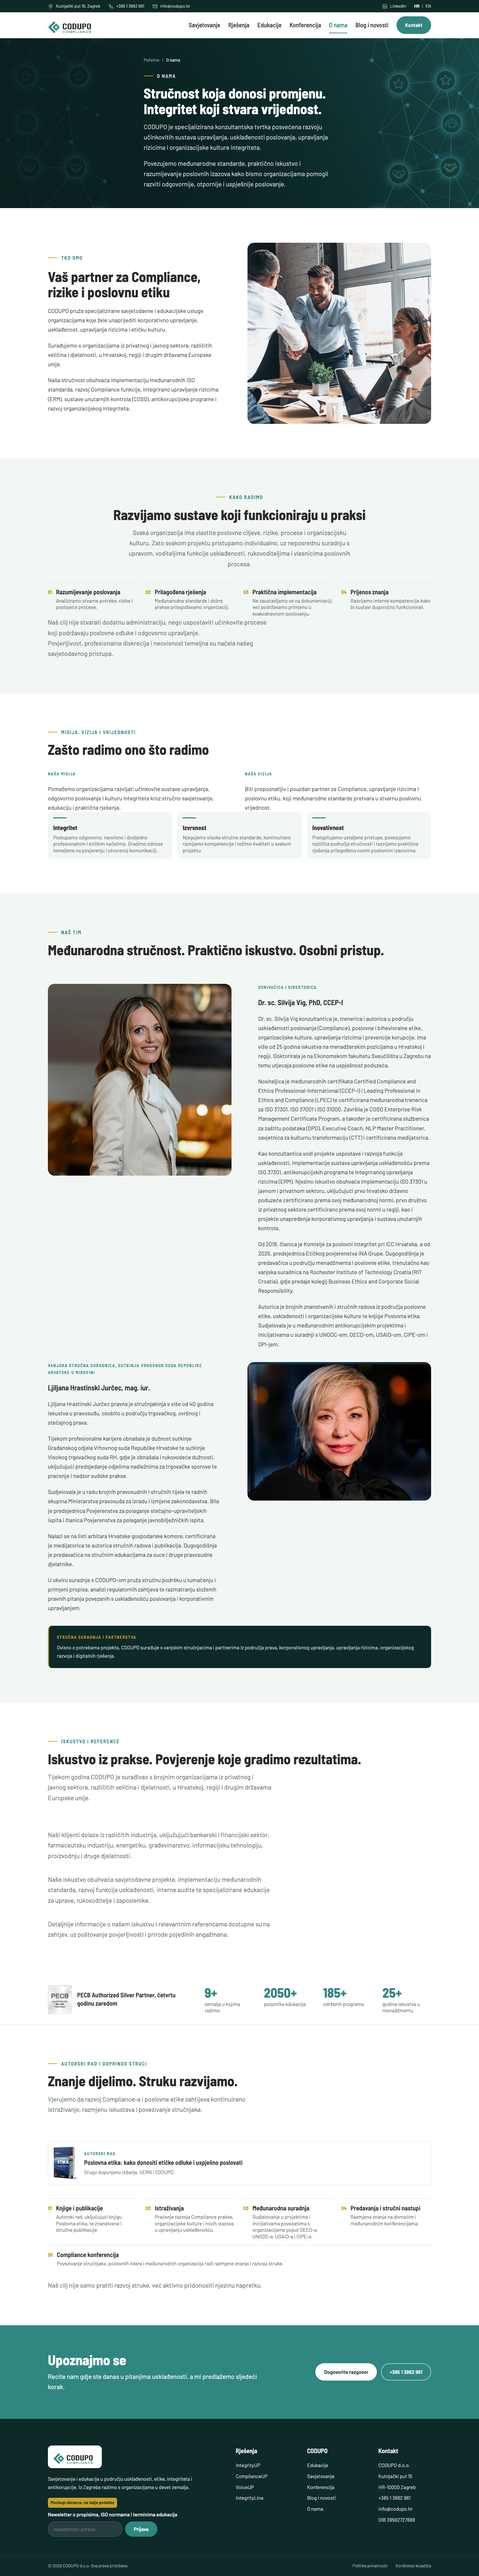
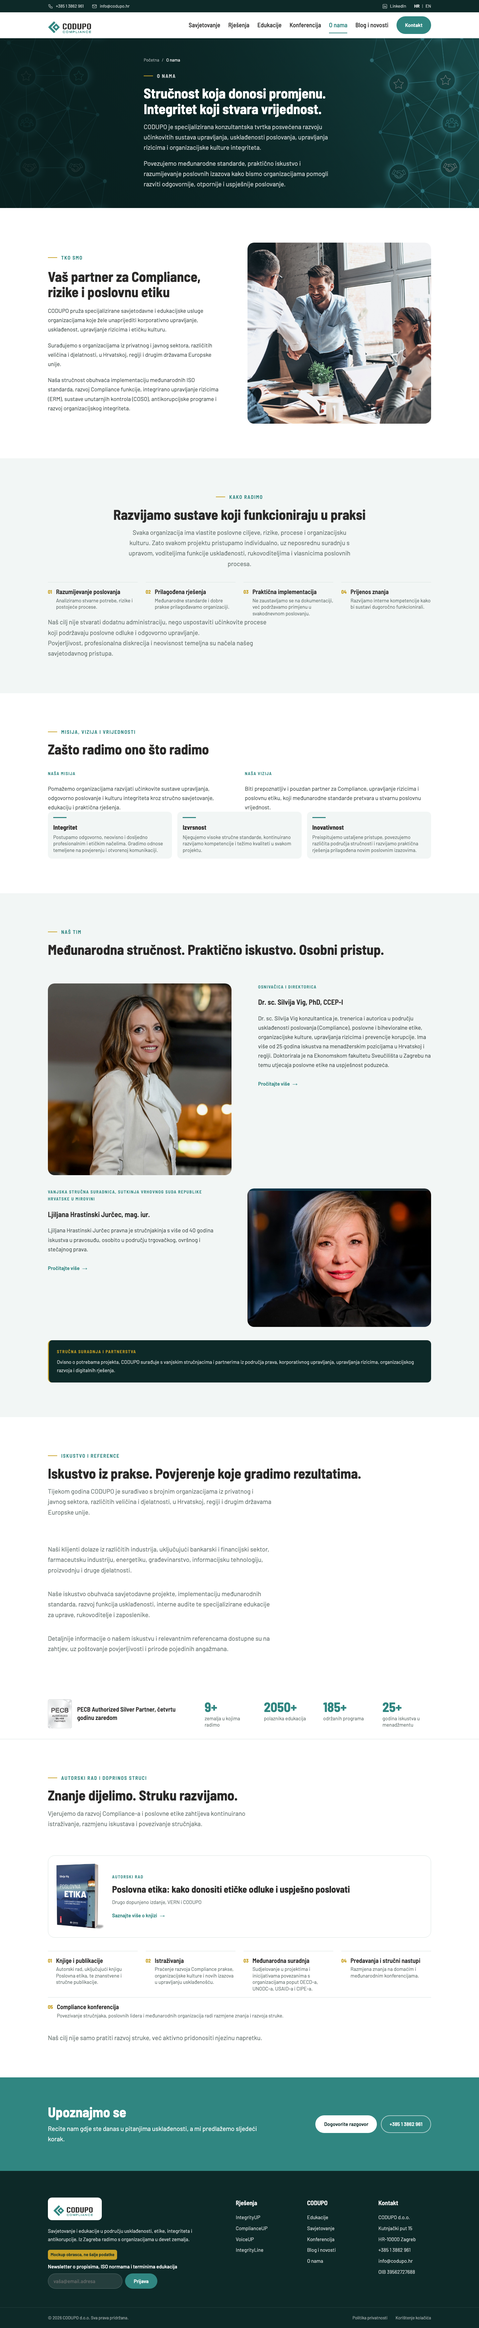
Ukloni adresu iz headera, dodaj Pročitajte više za biografije i uvećaj karticu knjige na O nama
Adresa je vlasnikova privatna adresa stanovanja, uklonjena samo iz
headera (footer ostaje netaknut). Biografije Silvije Vig i Ljiljane
Hrastinski Jurčec sad imaju "Pročitajte više" umjesto punog teksta.
Kartica knjige Poslovna etika uvećana i klikabilna, s mockup opisom
i poveznicom za narudžbu do stvarnog teksta vlasnika.

Changed region(s): [[0.0, 0.0, 1.0, 0.9973], [0.6875, 0.7168, 0.7188, 0.7791], [0.8125, 0.7168, 0.8438, 0.748]]

diff --git a/o-nama.html b/o-nama.html
@@ -106,10 +106,15 @@
             <span class="card-kicker">Osnivačica i direktorica</span>
             <h3 class="card-title">Dr. sc. Silvija Vig, PhD, CCEP-I</h3>
             <p class="body-text">Dr. sc. Silvija Vig konzultantica je, trenerica i autorica u području usklađenosti poslovanja (Compliance), poslovne i bihevioralne etike, organizacijske kulture, upravljanja rizicima i prevencije korupcije. Ima više od 25 godina iskustva na menadžerskim pozicijama u Hrvatskoj i regiji. Doktorirala je na Ekonomskom fakultetu Sveučilišta u Zagrebu na temu utjecaja poslovne etike na uspješnost poduzeća.</p>
-            <p class="body-text">Nositeljica je međunarodnih certifikata Certified Compliance and Ethics Professional-International (CCEP-I) i Leading Professional in Ethics and Compliance (LPEC) te certificirana međunarodna trenerica za ISO 37301, ISO 37001 i ISO 31000. Završila je COSO Enterprise Risk Management Certificate Program, a također je certificirana službenica za zaštitu podataka (DPO), Executive Coach, NLP Master Practitioner, savjetnica za kulturnu transformaciju (CTT) i certificirana medijatorica.</p>
-            <p class="body-text">Kao konzultantica vodi projekte uspostave i razvoja funkcija usklađenosti, implementacije sustava upravljanja usklađenošću prema ISO 37301, antikorupcijskih programa te integriranog upravljanja rizicima (ERM). Njezino iskustvo obuhvaća implementaciju ISO 37301 u javnom i privatnom sektoru, uključujući prvo hrvatsko državno poduzeće certificirano prema ovoj međunarodnoj normi, prvo društvo iz privatnog sektora certificirano prema ovoj normi u regiji, kao i projekte unapređenja korporativnog upravljanja i sustava unutarnjih kontrola.</p>
-            <p class="body-text">Od 2018. članica je Komisije za poslovni integritet pri ICC Hrvatska, a od 2025. predsjednica Etičkog povjerenstva INA Grupe. Dugogodišnja je predavačica u području menadžmenta i poslovne etike, trenutačno kao vanjska suradnica na Rochester Institute of Technology Croatia (RIT Croatia), gdje predaje kolegij Business Ethics and Corporate Social Responsibility.</p>
-            <p class="body-text">Autorica je brojnih znanstvenih i stručnih radova iz područja poslovne etike, usklađenosti i organizacijske kulture te knjige Poslovna etika. Sudjelovala je u međunarodnim antikorupcijskim projektima i inicijativama u suradnji s UNODC-em, OECD-om, USAID-om, CIPE-om i DPI-jem.</p>
+            <details class="bio-more">
+              <summary class="bio-more-toggle"><span class="bio-more-show">Pročitajte više</span><span class="bio-more-hide">Prikaži manje</span> <span class="link-arrow-mark">→</span></summary>
+              <div class="bio-more-body">
+                <p class="body-text">Nositeljica je međunarodnih certifikata Certified Compliance and Ethics Professional-International (CCEP-I) i Leading Professional in Ethics and Compliance (LPEC) te certificirana međunarodna trenerica za ISO 37301, ISO 37001 i ISO 31000. Završila je COSO Enterprise Risk Management Certificate Program, a također je certificirana službenica za zaštitu podataka (DPO), Executive Coach, NLP Master Practitioner, savjetnica za kulturnu transformaciju (CTT) i certificirana medijatorica.</p>
+                <p class="body-text">Kao konzultantica vodi projekte uspostave i razvoja funkcija usklađenosti, implementacije sustava upravljanja usklađenošću prema ISO 37301, antikorupcijskih programa te integriranog upravljanja rizicima (ERM). Njezino iskustvo obuhvaća implementaciju ISO 37301 u javnom i privatnom sektoru, uključujući prvo hrvatsko državno poduzeće certificirano prema ovoj međunarodnoj normi, prvo društvo iz privatnog sektora certificirano prema ovoj normi u regiji, kao i projekte unapređenja korporativnog upravljanja i sustava unutarnjih kontrola.</p>
+                <p class="body-text">Od 2018. članica je Komisije za poslovni integritet pri ICC Hrvatska, a od 2025. predsjednica Etičkog povjerenstva INA Grupe. Dugogodišnja je predavačica u području menadžmenta i poslovne etike, trenutačno kao vanjska suradnica na Rochester Institute of Technology Croatia (RIT Croatia), gdje predaje kolegij Business Ethics and Corporate Social Responsibility.</p>
+                <p class="body-text">Autorica je brojnih znanstvenih i stručnih radova iz područja poslovne etike, usklađenosti i organizacijske kulture te knjige Poslovna etika. Sudjelovala je u međunarodnim antikorupcijskim projektima i inicijativama u suradnji s UNODC-em, OECD-om, USAID-om, CIPE-om i DPI-jem.</p>
+              </div>
+            </details>
           </div>
         </div>
         <div class="split split-start">
@@ -117,10 +122,15 @@
             <span class="card-kicker">Vanjska stručna suradnica, sutkinja Vrhovnog suda Republike Hrvatske u mirovini</span>
             <h3 class="card-title">Ljiljana Hrastinski Jurčec, mag. iur.</h3>
             <p class="body-text">Ljiljana Hrastinski Jurčec pravna je stručnjakinja s više od 40 godina iskustva u pravosuđu, osobito u području trgovačkog, ovršnog i stečajnog prava.</p>
-            <p class="body-text">Tijekom profesionalne karijere obnašala je dužnost sutkinje Građanskog odjela Vrhovnog suda Republike Hrvatske te sutkinje Visokog trgovačkog suda RH, gdje je obnašala i rukovodeće dužnosti, uključujući predsjedanje odjelima nadležnima za trgovačke sporove te praćenje i nadzor sudske prakse.</p>
-            <p class="body-text">Sudjelovala je u radu brojnih pravosudnih i stručnih tijela te radnih skupina Ministarstva pravosuđa za izradu i izmjene zakonodavstva. Bila je predsjednica Povjerenstva za polaganje stečajno-upraviteljskih ispita i članica Povjerenstva za polaganje javnobilježničkih ispita.</p>
-            <p class="body-text">Nalazi se na listi arbitara Hrvatske gospodarske komore, certificirana je medijatorica te autorica stručnih radova i publikacija. Dugogodišnja je predavačica na stručnim edukacijama za suce i druge pravosudne djelatnike.</p>
-            <p class="body-text">U okviru suradnje s CODUPO-om pruža stručnu podršku u tumačenju i primjeni propisa, analizi regulatornih zahtjeva te razmatranju složenih pravnih pitanja povezanih s usklađenošću poslovanja i korporativnim upravljanjem.</p>
+            <details class="bio-more">
+              <summary class="bio-more-toggle"><span class="bio-more-show">Pročitajte više</span><span class="bio-more-hide">Prikaži manje</span> <span class="link-arrow-mark">→</span></summary>
+              <div class="bio-more-body">
+                <p class="body-text">Tijekom profesionalne karijere obnašala je dužnost sutkinje Građanskog odjela Vrhovnog suda Republike Hrvatske te sutkinje Visokog trgovačkog suda RH, gdje je obnašala i rukovodeće dužnosti, uključujući predsjedanje odjelima nadležnima za trgovačke sporove te praćenje i nadzor sudske prakse.</p>
+                <p class="body-text">Sudjelovala je u radu brojnih pravosudnih i stručnih tijela te radnih skupina Ministarstva pravosuđa za izradu i izmjene zakonodavstva. Bila je predsjednica Povjerenstva za polaganje stečajno-upraviteljskih ispita i članica Povjerenstva za polaganje javnobilježničkih ispita.</p>
+                <p class="body-text">Nalazi se na listi arbitara Hrvatske gospodarske komore, certificirana je medijatorica te autorica stručnih radova i publikacija. Dugogodišnja je predavačica na stručnim edukacijama za suce i druge pravosudne djelatnike.</p>
+                <p class="body-text">U okviru suradnje s CODUPO-om pruža stručnu podršku u tumačenju i primjeni propisa, analizi regulatornih zahtjeva te razmatranju složenih pravnih pitanja povezanih s usklađenošću poslovanja i korporativnim upravljanjem.</p>
+              </div>
+            </details>
           </div>
           <div class="split-media">
             <img class="media-photo" src="images/Ljiljana-Hrastinski.jpg" alt="Mag. iur. Ljiljana Hrastinski Jurčec, sutkinja Vrhovnog suda RH u mirovini">
@@ -171,14 +181,24 @@
           <h2 class="section-title">Znanje dijelimo. Struku razvijamo.</h2>
           <p class="section-lead">Vjerujemo da razvoj Compliance-a i poslovne etike zahtijeva kontinuirano istraživanje, razmjenu iskustava i povezivanje stručnjaka.</p>
         </div>
-        <div class="book-row">
-          <img class="book-cover" src="images/PoslovnaEtika2023-3D.png" alt="Knjiga Poslovna etika, Silvija Vig">
-          <div class="book-body">
-            <span class="card-kicker">Autorski rad</span>
-            <span class="book-title">Poslovna etika: kako donositi etičke odluke i uspješno poslovati</span>
-            <span class="book-text">Drugo dopunjeno izdanje, VERN i CODUPO</span>
+        <details class="book-feature">
+          <summary class="book-feature-summary">
+            <img class="book-feature-cover" src="images/PoslovnaEtika2023-3D.png" alt="Knjiga Poslovna etika, Silvija Vig">
+            <div class="book-feature-body">
+              <span class="card-kicker">Autorski rad</span>
+              <span class="book-feature-title">Poslovna etika: kako donositi etičke odluke i uspješno poslovati</span>
+              <span class="book-text">Drugo dopunjeno izdanje, VERN i CODUPO</span>
+              <span class="book-feature-toggle"><span class="book-feature-show">Saznajte više o knjizi</span><span class="book-feature-hide">Prikaži manje</span> <span class="link-arrow-mark">→</span></span>
+            </div>
+          </summary>
+          <div class="book-feature-expand">
+            <p class="body-text">Knjiga „Poslovna etika” donosi pregled izazova i dilema s kojima se poslovni ljudi svakodnevno susreću, uz praktične primjere i smjernice za donošenje etičkih odluka u poslovanju.</p>
+            <p class="body-text">Autorica dr. sc. Silvija Vig u knjizi povezuje teorijske koncepte poslovne etike sa stvarnim iskustvom rada s organizacijama iz različitih sektora.</p>
+            <div class="button-row">
+              <a class="button-primary" href="https://www.poslovnaetika.com/" target="_blank" rel="noopener">Naručite knjigu</a>
+            </div>
           </div>
-        </div>
+        </details>
         <div class="service-list">
           <div class="service-item"><span class="service-num">01</span><div class="service-body"><span class="service-title">Knjige i publikacije</span><span class="service-text">Autorski rad, uključujući knjigu Poslovna etika, te znanstvene i stručne publikacije.</span></div></div>
           <div class="service-item"><span class="service-num">02</span><div class="service-body"><span class="service-title">Istraživanja</span><span class="service-text">Praćenje razvoja Compliance prakse, organizacijske kulture i novih izazova u upravljanju usklađenošću.</span></div></div>

diff --git a/css/styles.css b/css/styles.css
@@ -96,6 +96,7 @@
   --portrait-h: 36rem;
   --media-h: 26rem;
   --book-w: 4.5rem;
+  --book-w-lg: 9rem;
   --badge-w: 4.5rem;
   --stat-basis: 8rem;
   --stat-basis-sm: 4.5rem;
@@ -1000,6 +1001,44 @@ button.tag { cursor: pointer; }
 .book-title { font-family: var(--f-head); font-size: var(--fs-md); font-weight: var(--fw-semibold); color: var(--c-charcoal); line-height: var(--lh-snug); }
 .book-text { font-size: var(--fs-sm); color: var(--c-muted); }
 
+/* Istaknuta, uvećana i klikabilna kartica knjige (O nama, "Autorski rad") */
+.book-feature { border: var(--border) solid var(--c-line); border-radius: var(--radius-lg); overflow: hidden; }
+.book-feature-summary {
+  display: flex;
+  align-items: center;
+  gap: var(--sp-6);
+  padding: var(--sp-6);
+  cursor: pointer;
+  list-style: none;
+}
+.book-feature-summary::-webkit-details-marker { display: none; }
+.book-feature-cover { width: var(--book-w-lg); height: auto; border-radius: var(--radius-sm); flex-shrink: 0; }
+.book-feature-body { display: flex; flex-direction: column; gap: var(--sp-2); }
+.book-feature-title { font-family: var(--f-head); font-size: var(--fs-xl); font-weight: var(--fw-bold); color: var(--c-charcoal); line-height: var(--lh-snug); }
+.book-feature-toggle { display: inline-flex; align-items: center; gap: var(--sp-2); font-weight: var(--fw-semibold); font-size: var(--fs-sm); color: var(--c-teal); margin-top: var(--sp-2); }
+.book-feature-hide { display: none; align-items: center; gap: var(--sp-2); }
+.book-feature[open] .book-feature-show { display: none; }
+.book-feature[open] .book-feature-hide { display: inline-flex; }
+.book-feature-expand { display: flex; flex-direction: column; gap: var(--sp-4); border-top: var(--border) solid var(--c-line); margin-top: var(--sp-2); padding: var(--sp-6); }
+
+/* "Pročitajte više" za duže biografije (O nama, "Naš tim") */
+.bio-more { margin-top: var(--sp-2); }
+.bio-more-toggle {
+  display: inline-flex;
+  align-items: center;
+  gap: var(--sp-2);
+  font-weight: var(--fw-semibold);
+  font-size: var(--fs-sm);
+  color: var(--c-teal);
+  cursor: pointer;
+  list-style: none;
+}
+.bio-more-toggle::-webkit-details-marker { display: none; }
+.bio-more-hide { display: none; }
+.bio-more[open] .bio-more-show { display: none; }
+.bio-more[open] .bio-more-hide { display: inline; }
+.bio-more-body { display: flex; flex-direction: column; gap: var(--sp-4); margin-top: var(--sp-4); }
+
 /* ===================== Blog ===================== */
 .blog-filter { margin-bottom: var(--sp-7); }
 .card-post {
@@ -1131,8 +1170,6 @@ site-footer { display: block; background: var(--c-ink); color: var(--c-white-80)
     --spotlight-h: 20rem;
   }
 
-  .topbar-group .topbar-item:first-child { display: none; }
-
   /* Collapsed nav that opens in normal flow below the logo row */
   .navbar-inner { flex-wrap: wrap; }
   .nav-toggle { display: inline-flex; }
@@ -1200,7 +1237,7 @@ site-footer { display: block; background: var(--c-ink); color: var(--c-white-80)
   }
 
   /* Top bar keeps only phone and language */
-  .topbar-group .topbar-item:nth-child(3),
+  .topbar-group .topbar-item:nth-child(2),
   .topbar-group .topbar-item[aria-label] { display: none; }
   .nav-toggle-label { display: none; }
 
@@ -1256,6 +1293,8 @@ site-footer { display: block; background: var(--c-ink); color: var(--c-white-80)
 
   .value-row { flex-direction: column; }
   .card-value { flex-basis: auto; }
+
+  .book-feature-summary { flex-direction: column; align-items: flex-start; }
 
   .compare-row { flex-direction: column; align-items: flex-start; gap: var(--sp-2); }
 

diff --git a/js/components.js b/js/components.js
@@ -38,7 +38,6 @@ class SiteHeader extends HTMLElement {
       <div class="topbar">
         <div class="container topbar-inner">
           <div class="topbar-group">
-            <span class="topbar-item">${ICON.pin}Kutnjački put 15, Zagreb</span>
             <a class="topbar-item" href="tel:+38513862961">${ICON.phone}+385 1 3862 961</a>
             <a class="topbar-item" href="mailto:info@codupo.hr">${ICON.mail}info@codupo.hr</a>
           </div>

diff --git a/CLAUDE.md b/CLAUDE.md
@@ -2,6 +2,12 @@
 
 Dokumentacija projekta: što je napravljeno, kojih se pravila držimo i što treba napraviti za preostale stranice.
 
+**Header adresa uklonjena, "Pročitajte više" za biografije i uvećana kartica knjige na O nama (18. 11. 2026.):** na vlasnikov zahtjev, iz razloga privatnosti ("to je lijepo i profesionalno ali kako je to i moja adresa stanovanja, ne bi je baš toliko isticala") - sve tri izmjene su prvo izrađene i potvrđene u Claude Design canvasu, pa tek onda prenesene na stvarnu stranicu.
+- **Adresa uklonjena iz headera** (`js/components.js`, `<site-header>`): `topbar-item` raspon s adresom "Kutnjački put 15, Zagreb" obrisan je iz topbara koji se prikazuje na SVIM stranicama (header je zajednička komponenta). Adresa u footeru (`<site-footer>`) namjerno NIJE dirana - vlasnik je tražio izmjenu samo u headeru, footer i dalje ispravno prikazuje pune pravne podatke tvrtke. Posljedično je uklanjanje otkrilo i ispravljeno dva responsive CSS pravila u `css/styles.css` koja su ovisila o poziciji adrese kao prvog djeteta `.topbar-group`: na tabletu (≤1024px) `.topbar-group .topbar-item:first-child { display: none; }` više nije bilo ispravno (sakrilo bi sad telefon, koji je postao prvo dijete) - pravilo je uklonjeno u cijelosti; na mobitelu (≤640px) `.topbar-group .topbar-item:nth-child(3)` promijenjen je u `:nth-child(2)` (e-mail je sad drugo, ne treće dijete), tako da topbar na mobitelu i dalje ispravno prikazuje samo telefon i jezični preklopnik, kako komentar u kodu i opisuje.
+- **"Pročitajte više" za biografije** (`o-nama.html`, sekcija "Naš tim"): i Silvija Vig i Ljiljana Hrastinski Jurčec sad imaju samo prvi odlomak biografije vidljiv izravno na stranici, a preostala četiri odlomka svakog teksta su u novom `.bio-more` uzorku (`<details>`/`<summary>`, bez JS-a, isti obrazac kao postojeći FAQ accordion) s poveznicom "Pročitajte više" koja se pri otvaranju mijenja u "Prikaži manje". Novi CSS uzorak u `css/styles.css`: `.bio-more`, `.bio-more-toggle`, `.bio-more-show`/`.bio-more-hide` (prikaz/skrivanje teksta linka preko `[open]` selektora, ne pseudo-elementa), `.bio-more-body`.
+- **Uvećana, klikabilna kartica knjige** (`o-nama.html`, sekcija "Autorski rad"): dotadašnji mali `.book-row` zamijenjen je novim, znatno većim `.book-feature` uzorkom (`<details>`/`<summary>`, isti bez-JS obrazac) - korica knjige je sad vidljivo veća (novi token `--book-w-lg: 9rem` nasuprot `--book-w: 4.5rem`), a klikom na karticu otvara se dodatni opis knjige i gumb "Naručite knjigu" koji vodi na https://www.poslovnaetika.com/. **Napomena:** opisni tekst unutar proširene kartice je privremen, izmišljen za ovu priliku jer je https://www.poslovnaetika.com/ nedostupan iz ovog okruženja (ECONNREFUSED na WebFetch, odbijeno i u Browser pane) - vlasnik je izričito rekao da će poslati novi, stvaran tekst ("za sada napravi nešto, ispiriraj se starim"), pa ovaj opis treba zamijeniti prije objave. Nijedna cijena, ISBN ni prodajni podatak nije izmišljen. Novi CSS uzorak: `.book-feature`, `.book-feature-summary`, `.book-feature-cover`, `.book-feature-body`, `.book-feature-title`, `.book-feature-toggle`, `.book-feature-show`/`.book-feature-hide`, `.book-feature-expand`, uz mobilni override `.book-feature-summary { flex-direction: column }`.
+- **Napomena o testiranju:** Browser pane je i ovaj put uporno posluživao staru, predizmjensku verziju `js/components.js` (stvaran uzrok - `customElements.define` ne dopušta ponovnu registraciju iste oznake, pa uobičajeni trik zamjene `<script src>` oznake ne radi za ovu datoteku, za razliku od `css/styles.css` gdje isti trik radi) čak i u potpuno novom tabu - potvrđeno da je riječ isključivo o artefaktu alata za pregled u ovoj sesiji (ne o serverskom ili kodnom problemu) kroz izravan `fetch(url, {cache:'no-store'})` koji je dosljedno vraćao ispravan sadržaj. Zaobiđeno za vizualnu provjeru tako da je svježi JS dohvaćen i ručno primijenjen na već postojeće `<site-header>`/`<site-footer>` elemente u DOM-u (bez `customElements.define`). Konačne snimke zaslona (`screens/o-nama-*.png`) napravljene su kroz uobičajeni headless Chrome postupak (poglavlje 3) izravno protiv lokalnog servera, što zaobilazi Browser pane keširanje u potpunosti i potvrđeno prikazuje ispravan, ažuran sadržaj.
+
 **Naslovnica, hero slider s tri najave (17. 11. 2026.):** stari jednostruki `.hero` zamijenjen je rotirajućim sliderom od tri najave, PECB-stil, na vlasnikov zahtjev. Stara `.hero` CSS klasa i njezin sadržaj nisu dirani (i dalje ih koristi `index-v1.html`) - slider koristi potpuno nov, paralelan skup klasa (`.hero-slider`, `.hero-slider-viewport`, `.hero-slider-track`, `.hero-slide` + tri modifikatora), a `.hero-inner`/`.hero-content`/`.hero-title`/`.hero-lead` su ponovno iskorišteni bez izmjene unutar svakog `.hero-slide`. Tri najave (redoslijed ispravljen 18. 11. 2026. - vidi dopunu niže, ovdje su već navedene ispravnim, trenutnim redoslijedom):
 1. **Naslovna poruka** - identičan sadržaj i fotografija (`Eksternalizirana-funkcija.png`) kao prijašnji jedinstveni `.hero` (nepromijenjen tekst, isti gumbi). Prvi slajd, `is-active is-visible` izravno u HTML-u.
 2. **Rješenja** - naslov i uvodni tekst doslovno preuzeti s `rjesenja.html` page-hero (`.page-hero-rjesenja`), ne izmišljeni iznova. Gumbi vode na `rjesenja.html`/`kontakt.html`. Fotografija nova, Artlist (Nano Banana 2, 16:9, 2K, 130 kredita): profesionalka pregledava povjerljivi izvještaj na laptopu - prvi pokušaj generiranja prikazao je vidljiv Apple logo na laptopu (zaštitni znak), ponovno generirano s eksplicitnom uputom za generički laptop bez oznaka.
